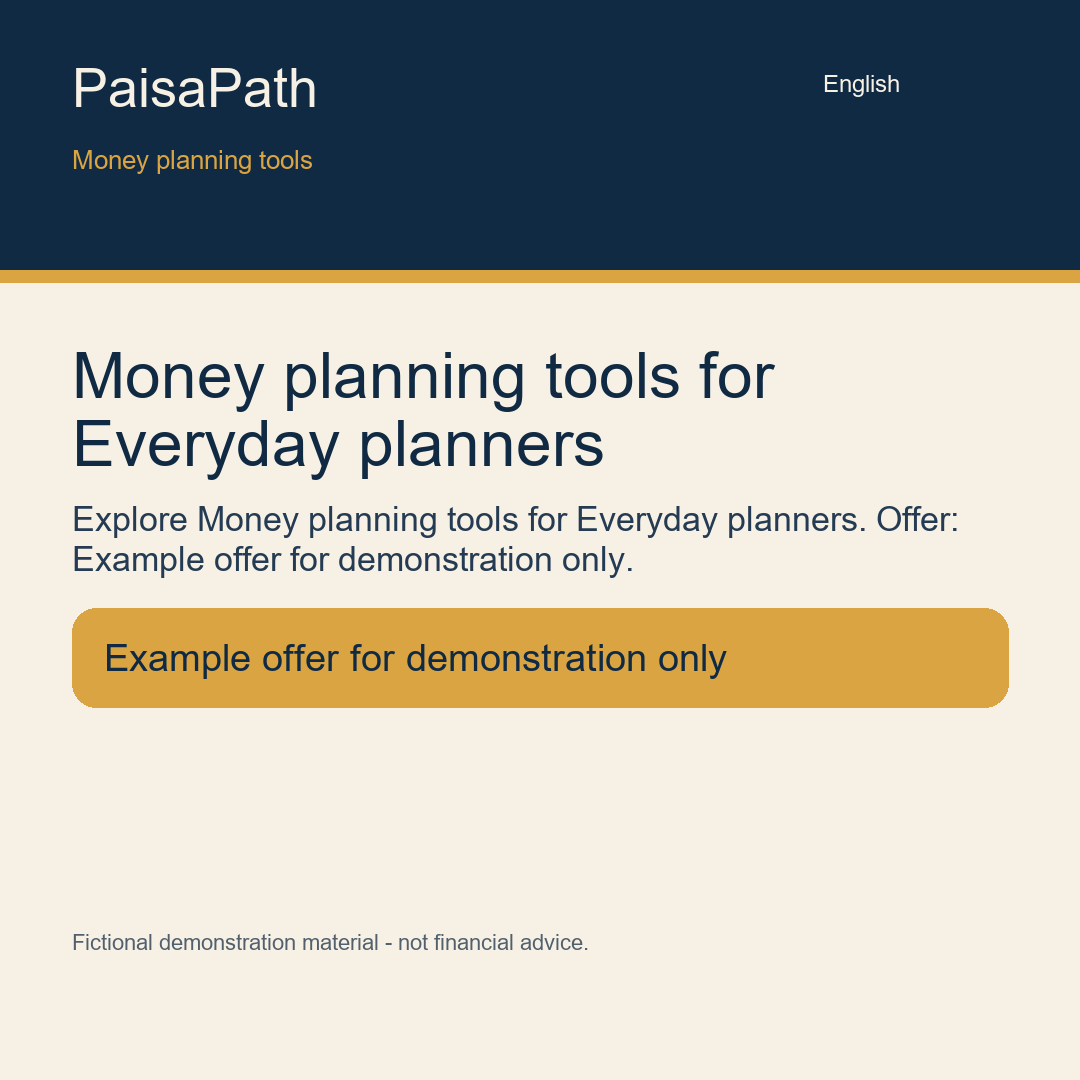
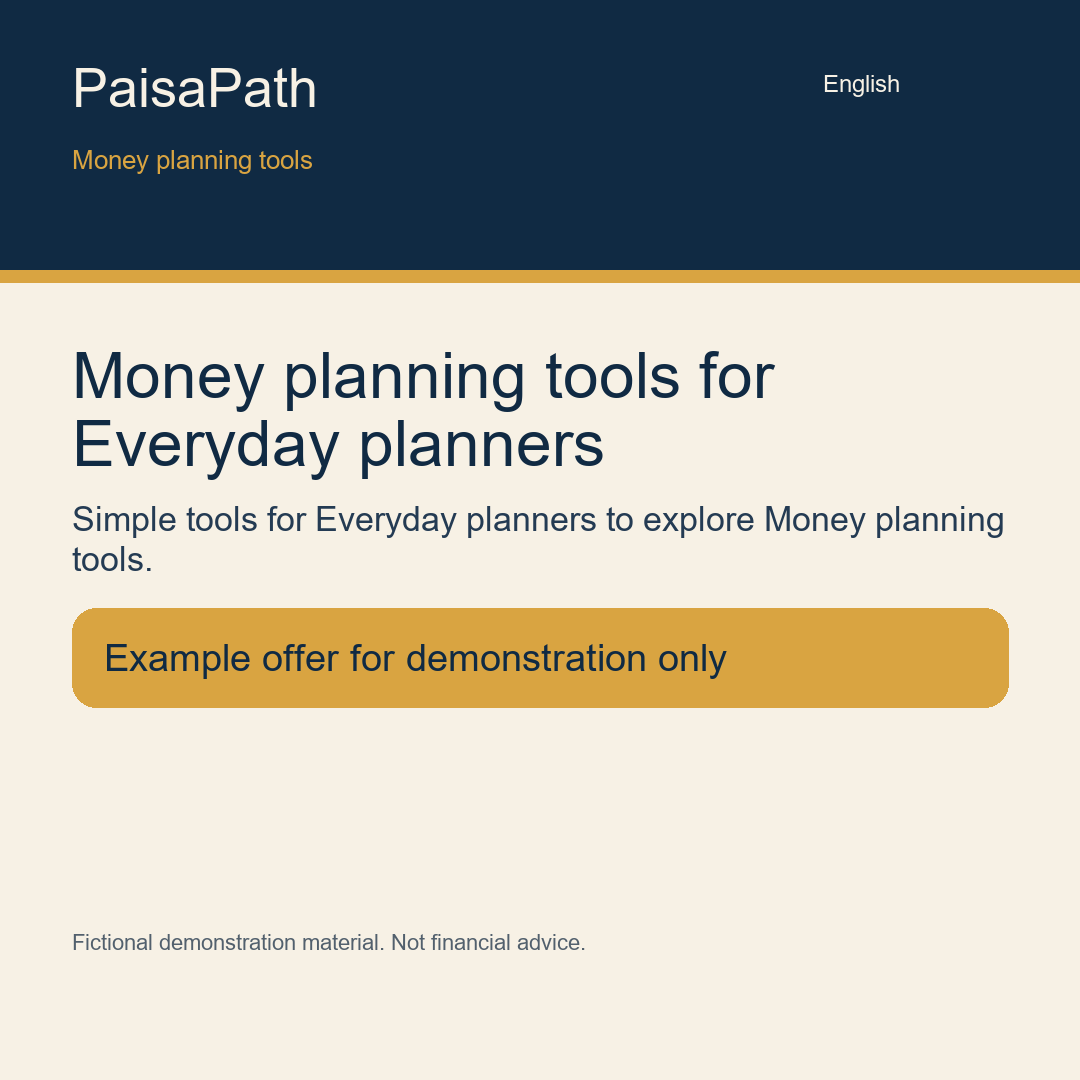
Fix multilingual samples and remove test image

Changed region(s): [[0.0611, 0.4583, 0.9472, 0.55], [0.3667, 0.8556, 0.55, 0.8861]]

diff --git a/app/generate_samples.py b/app/generate_samples.py
@@ -4,24 +4,26 @@ from app.config import OUTPUT_DIR
 from app.content_generator import prepare_copy
 from app.template_renderer import render_creative
 
-SAMPLE_OFFER = "Example offer for demonstration only"
 SAMPLES = (
     {
         "creative_id": "sample-english",
         "product": "Money planning tools",
         "audience": "Everyday planners",
+        "offer": "Example offer for demonstration only",
         "language": "English",
     },
     {
         "creative_id": "sample-hindi",
-        "product": "पैसों की योजना के साधन",
+        "product": "पैसों की योजना",
         "audience": "रोज़मर्रा के योजनाकार",
+        "offer": "यह केवल प्रदर्शन के लिए एक उदाहरण है।",
         "language": "Hindi",
     },
     {
         "creative_id": "sample-marathi",
-        "product": "पैशांच्या नियोजनाची साधने",
+        "product": "पैशांचे नियोजन",
         "audience": "दररोज नियोजन करणारे",
+        "offer": "हे केवळ प्रात्यक्षिकासाठी एक उदाहरण आहे.",
         "language": "Marathi",
     },
 )
@@ -34,7 +36,7 @@ def main() -> None:
 
     for sample in SAMPLES:
         try:
-            copy_data = prepare_copy({**sample, "offer": SAMPLE_OFFER})
+            copy_data = prepare_copy(sample)
             output_path = render_creative(copy_data, output_dir)
         except (OSError, ValueError) as error:
             print(f"ERROR {sample['creative_id']}: {error}")
